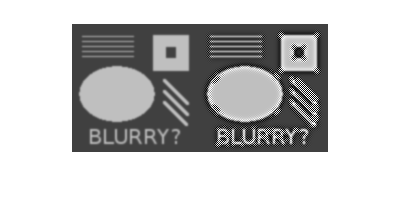
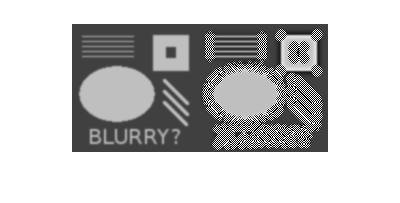
6am and sort of done!

Changed region(s): [[0.48, 0.1182, 0.81, 0.7389]]

diff --git a/html/hw3.html b/html/hw3.html
@@ -55,30 +55,30 @@ span.syscmd { color:#B28C00 }
 .footer { width:auto; padding:10px 0px; margin:25px 0px 0px; border-top:1px dotted #878787; font-size:0.8em; line-height:140%; font-style:italic; color:#878787; text-align:left; float:none; }
 .footer p { margin:0px; }
 
-  </style></head><body><div class="content"><h2>Contents</h2><div><ul><li><a href="#2">Q2</a></li><li><a href="#3">backslash (x1)</a></li><li><a href="#4">normal equation (x2)</a></li><li><a href="#5">QR factorisation (x3)</a></li><li><a href="#6">SVD (x4)</a></li><li><a href="#7">Summary of methods</a></li><li><a href="#9">Q3</a></li><li><a href="#11">Q4</a></li><li><a href="#13">Use image read from a file</a></li><li><a href="#14">Build a discrete 2D Laplace operator</a></li><li><a href="#15">Output original, blur, edge and final result side-by-side</a></li><li><a href="#17">Unsharp mask on 'eye.png'</a></li><li><a href="#18">Unsharp mask on non-blurry image</a></li><li><a href="#21">Changing blurring strength parameter from 0.1 to 0.5</a></li></ul></div><pre class="codeinput"><span class="keyword">function</span> [ ] = hw3( )
-</pre><h2>Q2<a name="2"></a></h2><pre class="codeinput">m = 50;
+  </style></head><body><div class="content"><h2>Contents</h2><div><ul><li><a href="#2">Q1 - git it done</a></li><li><a href="#4">Q2 - a little more least squares</a></li><li><a href="#5">backslash (x1)</a></li><li><a href="#6">normal equation (x2)</a></li><li><a href="#7">QR factorisation (x3)</a></li><li><a href="#8">SVD (x4)</a></li><li><a href="#9">Summary of methods</a></li><li><a href="#11">Q3 - condition numbers</a></li><li><a href="#13">Q4 - image processing and the "unsharp mask"</a></li><li><a href="#15">Use image read from a file</a></li><li><a href="#16">Build a discrete 2D Laplace operator</a></li><li><a href="#17">Output original, blur, edge and final result side-by-side</a></li><li><a href="#19">1. Unsharp mask on 'eye.png'</a></li><li><a href="#20">2. Unsharp mask on non-blurry image</a></li><li><a href="#23">3. Changing blurring strength parameter from 0.1 to 0.5</a></li><li><a href="#25">Q5 - fitting ellipses via least-squares</a></li><li><a href="#26">(a)</a></li><li><a href="#28">(b)</a></li><li><a href="#29">(c)</a></li></ul></div><pre class="codeinput"><span class="keyword">function</span> [ ] = hw3( )
+</pre><h2>Q1 - git it done<a name="2"></a></h2><p>include git shortlog</p><h2>Q2 - a little more least squares<a name="4"></a></h2><pre class="codeinput">m = 50;
 n = 5;
 
 t = linspace(0,1,m)';   <span class="comment">%transpose to form column vector</span>
 A = fliplr(vander(t));
 A = A(:,1:n);
 b = cos(4*t);
-</pre><h2>backslash (x1)<a name="3"></a></h2><pre class="codeinput">x1 = A\b;
+</pre><h2>backslash (x1)<a name="5"></a></h2><pre class="codeinput">x1 = A\b;
 <span class="comment">%plot(t,A*x1,'--b');</span>
 n1 = norm(A*x1-b);
-</pre><h2>normal equation (x2)<a name="4"></a></h2><pre class="codeinput">x2 = A'*A\A'*b;
+</pre><h2>normal equation (x2)<a name="6"></a></h2><pre class="codeinput">x2 = A'*A\A'*b;
 <span class="comment">%plot(t,A*x2,'--b');</span>
 n2 = norm(A*x2-b);
-</pre><h2>QR factorisation (x3)<a name="5"></a></h2><pre class="codeinput">[Q,R] = qr(A);
+</pre><h2>QR factorisation (x3)<a name="7"></a></h2><pre class="codeinput">[Q,R] = qr(A);
 y = Q'*b;
 x3 = R\y;
 <span class="comment">%plot(t,A*x3,'--b');</span>
 n3 = norm(A*x3-b);
-</pre><h2>SVD (x4)<a name="6"></a></h2><pre class="codeinput">[U,S,V] = svd(A,0);
+</pre><h2>SVD (x4)<a name="8"></a></h2><pre class="codeinput">[U,S,V] = svd(A,0);
 x4 = V*inv(S)*U'*b;
 <span class="comment">%plot(t,A*x4,'--b');</span>
 n4 = norm(A*x4-b);
-</pre><h2>Summary of methods<a name="7"></a></h2><pre class="codeinput">format <span class="string">long</span> <span class="string">g</span>
+</pre><h2>Summary of methods<a name="9"></a></h2><pre class="codeinput">format <span class="string">long</span> <span class="string">g</span>
 x = [x1 x2 x3 x4]
 res_norms = [n1 n2 n3 n4]
 </pre><pre class="codeoutput">
@@ -111,21 +111,21 @@ res_norms =
 
         0.0613567562398875
 
-</pre><p>Based on the 2-norms of the residuals, the QR factorisation stands out from the other methods (larger in the 14th digit).</p><h2>Q3<a name="9"></a></h2><p>Devise an experiment?!</p><pre class="codeinput">cond(A)
+</pre><p>Based on the 2-norms of the residuals, the QR factorisation stands out from the other methods (larger in the 14th digit).</p><h2>Q3 - condition numbers<a name="11"></a></h2><p>Devise an experiment?!</p><pre class="codeinput">cond(A)
 </pre><pre class="codeoutput">
 ans =
 
           642.667357121995
 
-</pre><h2>Q4<a name="11"></a></h2><pre class="codeinput"><span class="keyword">function</span> [ uenhance ] = unsharp( u, N, strength )
+</pre><h2>Q4 - image processing and the "unsharp mask"<a name="13"></a></h2><pre class="codeinput"><span class="keyword">function</span> [ uenhance ] = unsharp( u, N, strength )
 </pre><pre class="codeinput">    <span class="comment">% Returns matrix of pixels, u is value of imread.</span>
     <span class="comment">% N is number of blurring steps, and</span>
     <span class="comment">%   strength is the blurring parameter (0.1 in original example).</span>
-</pre><h2>Use image read from a file<a name="13"></a></h2><pre class="codeinput">[n,n2] = size(u);
+</pre><h2>Use image read from a file<a name="15"></a></h2><pre class="codeinput">[n,n2] = size(u);
 <span class="keyword">if</span> (n ~= n2)
   error(<span class="string">'by default, this only supports square images'</span>)
 <span class="keyword">end</span>
-</pre><h2>Build a discrete 2D Laplace operator<a name="14"></a></h2><pre class="codeinput">e = ones(n,1);
+</pre><h2>Build a discrete 2D Laplace operator<a name="16"></a></h2><pre class="codeinput">e = ones(n,1);
 L1 = spdiags([e  -2*e  e], [-1 0 1], n, n);
 <span class="comment">% this next line implements "Neumann boundary conditions": you could</span>
 <span class="comment">% try commenting it out.</span>
@@ -165,8 +165,8 @@ uenhance = reshape(enhance, n, n);
 <span class="comment">% caxis([0 1])</span>
 <span class="comment">% colormap(gray)</span>
 <span class="comment">% axis equal, axis tight</span>
-</pre><h2>Output original, blur, edge and final result side-by-side<a name="15"></a></h2><p>You could look at the resulting file with a web browser or image viewer result = [u  ublur uedge uenhance]; imwrite(result, 'result.png')</p><pre class="codeinput"><span class="keyword">end</span>
-</pre><h2>Unsharp mask on 'eye.png'<a name="17"></a></h2><pre class="codeinput">    u = imread(<span class="string">'eye.png'</span>);
+</pre><h2>Output original, blur, edge and final result side-by-side<a name="17"></a></h2><p>You could look at the resulting file with a web browser or image viewer result = [u  ublur uedge uenhance]; imwrite(result, 'result.png')</p><pre class="codeinput"><span class="keyword">end</span>
+</pre><h2>1. Unsharp mask on 'eye.png'<a name="19"></a></h2><pre class="codeinput">    u = imread(<span class="string">'eye.png'</span>);
     <span class="comment">% convert image to double and scale to [0,1]</span>
     u = double(u) / 255;
     uenhance = unsharp(u, 10, 0.1);
@@ -174,7 +174,7 @@ uenhance = reshape(enhance, n, n);
     result = [u  uenhance];
     imwrite(result, <span class="string">'result-eye.png'</span>);
     imshow(<span class="string">'result-eye.png'</span>);
-</pre><img vspace="5" hspace="5" src="hw3_01.png" alt=""> <h2>Unsharp mask on non-blurry image<a name="18"></a></h2><pre class="codeinput">    u = imread(<span class="string">'testpat_noblur.png'</span>);
+</pre><img vspace="5" hspace="5" src="hw3_01.png" alt=""> <h2>2. Unsharp mask on non-blurry image<a name="20"></a></h2><pre class="codeinput">    u = imread(<span class="string">'testpat_noblur.png'</span>);
     <span class="comment">% convert image to double and scale to [0,1]</span>
     u = double(u) / 255;
     result = u;
@@ -189,22 +189,66 @@ uenhance = reshape(enhance, n, n);
 
     figure; clf;
     imshow(uenhance, <span class="string">'InitialMagnification'</span>, 300);
-</pre><img vspace="5" hspace="5" src="hw3_02.png" alt=""> <img vspace="5" hspace="5" src="hw3_03.png" alt=""> <p>The unsharp mask locally changes grey to white and black on either side of the edge.</p><p>More blurring steps increases this contrast at the edges.</p><h2>Changing blurring strength parameter from 0.1 to 0.5<a name="21"></a></h2><pre class="codeinput">    u = imread(<span class="string">'testpat_blur2.png'</span>);
+</pre><img vspace="5" hspace="5" src="hw3_02.png" alt=""> <img vspace="5" hspace="5" src="hw3_03.png" alt=""> <p>The unsharp mask locally changes grey to white and black on either side of the edge.</p><p>More blurring steps increases this contrast at the edges.</p><h2>3. Changing blurring strength parameter from 0.1 to 0.5<a name="23"></a></h2><pre class="codeinput">    u = imread(<span class="string">'testpat_blur2.png'</span>);
     <span class="comment">% convert image to double and scale to [0,1]</span>
     u = double(u) / 255;
-    uenhance = unsharp(u, 10, 0.4);
+    uenhance = unsharp(u, 10, 0.5);
 
     result = [u  uenhance];
     imwrite(result, <span class="string">'result-2.png'</span>);
     imshow(<span class="string">'result-2.png'</span>);
-</pre><img vspace="5" hspace="5" src="hw3_04.png" alt=""> <p>Changing the blurring parameter from 0.1 to 0.5 introduces more "noise" at the edges</p><pre class="codeinput"><span class="keyword">end</span>
+</pre><img vspace="5" hspace="5" src="hw3_04.png" alt=""> <p>Changing the blurring parameter from 0.1 to 0.5 introduces more "noise" at the edges because of too much "diffusion".</p><h2>Q5 - fitting ellipses via least-squares<a name="25"></a></h2><h2>(a)<a name="26"></a></h2><p>Solve Ax=b, where b is a n x 1 column vector of ones,   and A is a n x 3 matrix with each row being the values   x^2, xy, y^2 for each coordinate point (x,y).</p><h2>(b)<a name="28"></a></h2><pre class="codeinput"><span class="keyword">function</span> [b c d] = ellipse(x, y)
+    A = [x.^2; x.*y; y.^2]';    <span class="comment">%transpose so n-by-3</span>
+    n = length(x);  <span class="comment">%should be same as length(y) as well!</span>
+    e = ones(n,1);
+    sol = A\e;
+    b = sol(1);
+    c = sol(2);
+    d = sol(3);
+<span class="keyword">end</span>
+
+<span class="comment">% driver code</span>
+x = [3 1 0 -1 -2 0 -2 2];
+y = [3 -2 3 2 -2 -4 0 0];
+[b c d] = ellipse(x, y);
+
+plot(x,y,<span class="string">'o'</span>);
+hold <span class="string">all</span>;
+fitted = @(x,y)(b*x^2+c*x*y+d*y^2-1);
+ezplot(fitted);
+</pre><pre class="codeoutput">Warning: Function failed to evaluate on array inputs; vectorizing the function
+may
+speed up its evaluation and avoid the need to loop over array elements. 
+</pre><img vspace="5" hspace="5" src="hw3_05.png" alt=""> <h2>(c)<a name="29"></a></h2><pre class="codeinput"><span class="comment">% input points</span>
+figure; clf;
+hold <span class="string">off</span>, axis([-3 3 -3 3]), axis <span class="string">manual</span>, hold <span class="string">on</span>, grid <span class="string">on</span>;
+X = []; Y = []; button = 1;
+disp(<span class="string">'input points with mouse, button &gt;= 2 for final point'</span>);
+<span class="keyword">while</span> button == 1
+    [xx,yy,button] = ginput(1);
+    X = [X; xx]; Y = [Y; yy]; plot(xx,yy,<span class="string">'x'</span>);
+<span class="keyword">end</span>
+
+[b c d] = ellipse(X', Y');  <span class="comment">%transpose X, Y to row vectors</span>
+hold <span class="string">all</span>;
+fitted = @(x,y)(b*x^2+c*x*y+d*y^2-1);
+ezplot(fitted);
+</pre><pre class="codeoutput">input points with mouse, button &gt;= 2 for final point
+Warning: Function failed to evaluate on array inputs; vectorizing the function
+may
+speed up its evaluation and avoid the need to loop over array elements. 
+</pre><img vspace="5" hspace="5" src="hw3_06.png" alt=""> <pre class="codeinput"><span class="keyword">end</span>
 </pre><p class="footer"><br>
       Published with MATLAB&reg; 7.14<br></p></div><!--
 ##### SOURCE BEGIN #####
 function [ ] = hw3( )
 
+%% Q1 - git it done
 
-%% Q2
+%%
+% include git shortlog
+
+%% Q2 - a little more least squares
 
 m = 50;
 n = 5;
@@ -245,14 +289,13 @@ res_norms = [n1 n2 n3 n4]
 % Based on the 2-norms of the residuals, the QR factorisation
 % stands out from the other methods (larger in the 14th digit).
 
-%% Q3
+%% Q3 - condition numbers
 
 %%
 % Devise an experiment?!
 cond(A)
 
-%% Q4
-
+%% Q4 - image processing and the "unsharp mask"
 
 function [ uenhance ] = unsharp( u, N, strength )
     % Returns matrix of pixels, u is value of imread.
@@ -315,7 +358,7 @@ uenhance = reshape(enhance, n, n);
 
 end
 
-%% Unsharp mask on 'eye.png'
+%% 1. Unsharp mask on 'eye.png'
     u = imread('eye.png');
     % convert image to double and scale to [0,1]
     u = double(u) / 255;
@@ -325,7 +368,7 @@ end
     imwrite(result, 'result-eye.png');
     imshow('result-eye.png');
     
-%% Unsharp mask on non-blurry image
+%% 2. Unsharp mask on non-blurry image
     u = imread('testpat_noblur.png');
     % convert image to double and scale to [0,1]
     u = double(u) / 255;
@@ -348,11 +391,11 @@ end
     %%
     % More blurring steps increases this contrast at the edges.
     
-%% Changing blurring strength parameter from 0.1 to 0.5
+%% 3. Changing blurring strength parameter from 0.1 to 0.5
     u = imread('testpat_blur2.png');
     % convert image to double and scale to [0,1]
     u = double(u) / 255;
-    uenhance = unsharp(u, 10, 0.4);
+    uenhance = unsharp(u, 10, 0.5);
         
     result = [u  uenhance];
     imwrite(result, 'result-2.png');
@@ -360,7 +403,53 @@ end
     
     %%
     % Changing the blurring parameter from 0.1 to 0.5
-    % introduces more "noise" at the edges
+    % introduces more "noise" at the edges because of too much "diffusion".
+        
+%% Q5 - fitting ellipses via least-squares
+
+%% (a)
+%%
+% Solve Ax=b, where b is a n x 1 column vector of ones,
+%   and A is a n x 3 matrix with each row being the values
+%   x^2, xy, y^2 for each coordinate point (x,y).
+
+%% (b)
+function [b c d] = ellipse(x, y)
+    A = [x.^2; x.*y; y.^2]';    %transpose so n-by-3
+    n = length(x);  %should be same as length(y) as well!
+    e = ones(n,1);
+    sol = A\e;
+    b = sol(1);
+    c = sol(2);
+    d = sol(3);
+end
+
+% driver code
+x = [3 1 0 -1 -2 0 -2 2];
+y = [3 -2 3 2 -2 -4 0 0];
+[b c d] = ellipse(x, y);
+
+plot(x,y,'o');
+hold all;
+fitted = @(x,y)(b*x^2+c*x*y+d*y^2-1);
+ezplot(fitted);
+
+%% (c)
+
+% input points
+figure; clf;
+hold off, axis([-3 3 -3 3]), axis manual, hold on, grid on;
+X = []; Y = []; button = 1;
+disp('input points with mouse, button >= 2 for final point');
+while button == 1
+    [xx,yy,button] = ginput(1);
+    X = [X; xx]; Y = [Y; yy]; plot(xx,yy,'x');
+end
+
+[b c d] = ellipse(X', Y');  %transpose X, Y to row vectors
+hold all;
+fitted = @(x,y)(b*x^2+c*x*y+d*y^2-1);
+ezplot(fitted);
     
 end
 

diff --git a/hw3.m b/hw3.m
@@ -1,7 +1,11 @@
 function [ ] = hw3( )
 
+%% Q1 - git it done
 
-%% Q2
+%%
+% include git shortlog
+
+%% Q2 - a little more least squares
 
 m = 50;
 n = 5;
@@ -42,14 +46,13 @@ res_norms = [n1 n2 n3 n4]
 % Based on the 2-norms of the residuals, the QR factorisation
 % stands out from the other methods (larger in the 14th digit).
 
-%% Q3
+%% Q3 - condition numbers
 
 %%
 % Devise an experiment?!
 cond(A)
 
-%% Q4
-
+%% Q4 - image processing and the "unsharp mask"
 
 function [ uenhance ] = unsharp( u, N, strength )
     % Returns matrix of pixels, u is value of imread.
@@ -112,7 +115,7 @@ uenhance = reshape(enhance, n, n);
 
 end
 
-%% Unsharp mask on 'eye.png'
+%% 1. Unsharp mask on 'eye.png'
     u = imread('eye.png');
     % convert image to double and scale to [0,1]
     u = double(u) / 255;
@@ -122,7 +125,7 @@ end
     imwrite(result, 'result-eye.png');
     imshow('result-eye.png');
     
-%% Unsharp mask on non-blurry image
+%% 2. Unsharp mask on non-blurry image
     u = imread('testpat_noblur.png');
     % convert image to double and scale to [0,1]
     u = double(u) / 255;
@@ -145,11 +148,11 @@ end
     %%
     % More blurring steps increases this contrast at the edges.
     
-%% Changing blurring strength parameter from 0.1 to 0.5
+%% 3. Changing blurring strength parameter from 0.1 to 0.5
     u = imread('testpat_blur2.png');
     % convert image to double and scale to [0,1]
     u = double(u) / 255;
-    uenhance = unsharp(u, 10, 0.4);
+    uenhance = unsharp(u, 10, 0.5);
         
     result = [u  uenhance];
     imwrite(result, 'result-2.png');
@@ -157,7 +160,53 @@ end
     
     %%
     % Changing the blurring parameter from 0.1 to 0.5
-    % introduces more "noise" at the edges
+    % introduces more "noise" at the edges because of too much "diffusion".
+        
+%% Q5 - fitting ellipses via least-squares
+
+%% (a)
+%%
+% Solve Ax=b, where b is a n x 1 column vector of ones,
+%   and A is a n x 3 matrix with each row being the values
+%   x^2, xy, y^2 for each coordinate point (x,y).
+
+%% (b)
+function [b c d] = ellipse(x, y)
+    A = [x.^2; x.*y; y.^2]';    %transpose so n-by-3
+    n = length(x);  %should be same as length(y) as well!
+    e = ones(n,1);
+    sol = A\e;
+    b = sol(1);
+    c = sol(2);
+    d = sol(3);
+end
+
+% driver code
+x = [3 1 0 -1 -2 0 -2 2];
+y = [3 -2 3 2 -2 -4 0 0];
+[b c d] = ellipse(x, y);
+
+plot(x,y,'o');
+hold all;
+fitted = @(x,y)(b*x^2+c*x*y+d*y^2-1);
+ezplot(fitted);
+
+%% (c)
+
+% input points
+figure; clf;
+hold off, axis([-3 3 -3 3]), axis manual, hold on, grid on;
+X = []; Y = []; button = 1;
+disp('input points with mouse, button >= 2 for final point');
+while button == 1
+    [xx,yy,button] = ginput(1);
+    X = [X; xx]; Y = [Y; yy]; plot(xx,yy,'x');
+end
+
+[b c d] = ellipse(X', Y');  %transpose X, Y to row vectors
+hold all;
+fitted = @(x,y)(b*x^2+c*x*y+d*y^2-1);
+ezplot(fitted);
     
 end
 
